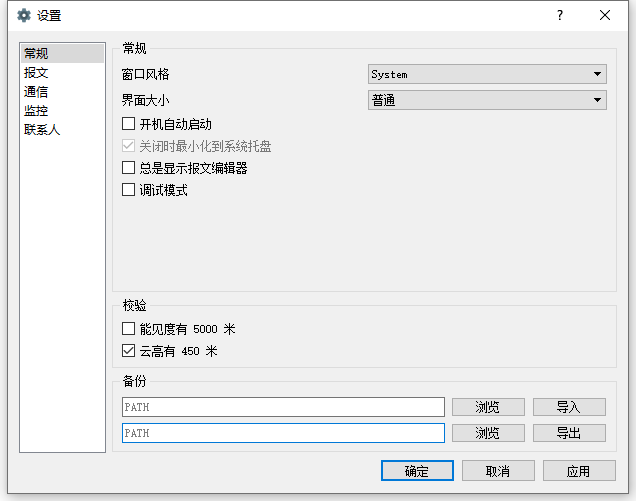
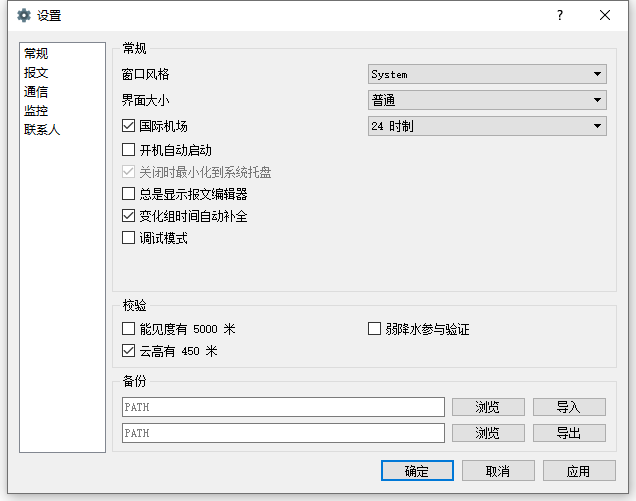
更新使用指南文档

diff --git a/docs/guide.rst b/docs/guide.rst
@@ -60,8 +60,10 @@
 """"""""""""
 - **窗口风格** 设置窗口主题，默认跟随系统
 - **界面大小** 调整界面放大比例，普通 100%，大 125%，最大 150%
+- **国际机场** 勾选国际机场，TAF 生成 FT 类型的报文，时长可选择 24 时制或 30 时制；不启用该项，TAF 生成 FC 类型的报文，时长 9 小时
 - **开机自动启动** 程序在系统启动时自动启动
 - **总是显示报文编辑器** 报文发送窗口打开时报文编辑器会默认隐藏，勾选后同时显示报文编辑器和发送窗口
+- **变化组时间自动补全** 勾选后 TAF 报文变化组会根据起始时间自动补全结束时间，BECMG 组结束时间递增 1 小时， TEMPO 组结束时间根据报文类型的不同递增 4 或 6 小时
 - **调试模式** 勾选后用于开启低级别的日志记录模式
 
 校验
@@ -261,7 +263,6 @@ AFTN 参数
 
 取消报不会自动添加闹钟。
 
-
 .. note:: 部分配置更改如需生效，需要重启软件。
 
 
@@ -273,12 +274,15 @@ TAF 报文的编辑
 
 .. image:: /images/taf_editor.png
 
-编辑框严格限制了每项要素所能输入的字符，未输入完全的项会灰色显示。
+阵风、能见度、温度的输入需要手动补 0，比如阵风 9 m，需要输入 09。
 
-阵风、能见度、温度的输入需要手动补 0，比如阵风 9 m，需要输入 09，所有必要项输入完全后，才可以进行下一步。
+云组的第一项输入 VV，可切换为垂直能见度模式，删除 VV 后切换为云组。
 
-.. note:: FM 组暂时没有。
+有效期 30 小时的报文会出现三组温度组，其中最后一组温度组可以点击 **温度计** 图标切换最高温模式或最低温模式。可变温度组不强制要求输入。在三组温度组模式中，温度组会按照高温优先并以时间排序，校验时遵循，两个最高温或最低温不能出现在同一天。
 
+变化组会按照 BECMG 组在前，TEMPO 组在后并以起始时间排序。
+
+编辑框严格限制了每项要素所能输入的字符，未输入完全的项会灰色显示，所有必要项输入完全后，才可以进行下一步。
 
 预览和校验
 ^^^^^^^^^^^
@@ -323,7 +327,17 @@ SIGMET 区域的编辑有两种模式，**画布模式** 和 **文本模式**：
 
 文本模式提供基础的经纬度输入，如果在设置 -> 数据源中开启了情报区信息地址，文本模式的编辑项会自动隐藏。
 
-画布模式会每 10 分钟加载一次最新的云图，并且在画布的左下角显示云图的更新时间，如果无法获取云图，底图会被灰色画布代替；区域编辑方式主要有三种，点，线和经纬度，点击区域右上角的 **淡蓝色图标** 可在三种状态之间切换。
+画布模式会每 10 分钟加载一次最新的云图，并且在画布的左下角显示云图的更新时间，如果无法获取云图，底图会被灰色画布代替；区域编辑方式主要有四种，点，线，经纬度，走廊区域，点击区域右上角右一的 **淡蓝色图标** 可在四种状态之间切换。
+
+区域编辑初始状态只能编辑一块区域，如果想要编辑预测区域，在默认区域编辑完成后，点击右上角 **淡蓝色 F 按钮**，可以编辑预测区域。如果在预测区域编辑完成后想修改默认区域，只能取消选中 **淡蓝色 F 按钮**，这样做的同时会清除预测区域。
+
+不同类型的区域会用不同的颜色显示，黄色表示默认区域，淡绿色表示预测区域。
+
+**文本**
+
+.. image:: /images/sigmet_text_area.png
+
+文本模式支持点，线，经纬度，走廊区域的输入，输入过程中会严格校验字符，但不校验输入的区域是否能被解析成合理的图形。
 
 **点**
 
@@ -335,7 +349,7 @@ SIGMET 区域的编辑有两种模式，**画布模式** 和 **文本模式**：
 
 在已有两个点时，初始点附近点击可以形成闭合区域，用实线表示编辑完成，此时程序会自动计算所选区域和情报区边界的交集，如果交集的点超过 7 个，会自动平滑到 7 个点以内。
 
-.. image:: /images/sigmet_polygon_extend.png
+.. image:: /images/sigmet_canvas_polygon_extend.png
 
 对于复杂边界，如国界、海岸线等，程序会自动扩展多边形以确保所有的点都包括在简化后的多边形内，如果扩展后的图形不符合你的预期，可以重新绘制多试几次。
       
@@ -345,7 +359,7 @@ SIGMET 区域的编辑有两种模式，**画布模式** 和 **文本模式**：
 
 **经纬度**
 
-.. image:: /images/sigmet_canvas_select_rectangular.png
+.. image:: /images/sigmet_canvas_draw_rectangular.png
 
 经纬度最多支持 4 条线构成一个区域，略有不同于点和线的编辑方式：
 
@@ -355,21 +369,49 @@ SIGMET 区域的编辑有两种模式，**画布模式** 和 **文本模式**：
 
 在编辑完成时，如果某条线的长度小于 0.5 度，则该条线不会被编入到报文中。
 
+**走廊区域**
+
+.. image:: /images/sigmet_canvas_corridor.png
+
+基线最大支持 4 个点，用虚线表示，实线表示编辑完成，添加宽度操作鼠标滚轮即可：
+
+    * :kbd:`鼠标左键` 添加坐标点
+
+    * :kbd:`鼠标右键` 删除宽度或上一个点
+
+    * :kbd:`鼠标滚轮` 调整图形的宽度
+
+如果区域的中心线和情报区相交成两条折线，选取先绘制的那条线作为基线。
+
 .. image:: /images/sigmet_canvas_decode.png
       
-已发送的 SIGMET 在有效期内会在底图中显示，图中的编号为 SIGMET 编号。
+已发送的 SIGMET 在有效期内会在底图中显示，不同类型的 SIGMET 显示为不同颜色，如雷雨显示棕黄色，火山灰显示红色等，图中的数字为 SIGMET 编号。
+
+如果 SIGMET 报文包含两个区域，预测区域会以淡绿色显示。
       
-.. note:: 通用模板不支持多块区域的编辑，如果想发布多块区域，应该发布多份 SIGMET。
+.. note:: 除预测区域外，通用模板不支持多块区域的编辑，如果想发布多块区域，应该发布多份 SIGMET。
 
 热带气旋模板
 """""""""""""""
 .. image:: /images/sigmet_typhoon_template.png
 
-经纬度的输入需要自行添加标识符 N、E 等。
+热带气旋的范围可以通过图形化绘制，选定中心，再添加一点可以绘制一个圆形区域：
+
+    * :kbd:`鼠标左键` 第一次添加中心点，第二次添加圆的边缘，由这两点确定圆的半径
+
+    * :kbd:`鼠标右键` 删除半径或中心点
+
+    * :kbd:`鼠标滚轮` 调整圆的半径
+
+输入框中的经纬度、范围会和图形区域同步，但因为精度换算问题，有可能会和画布中显示的些许不同，最终生成的报文以输入框的为准。如果手工输入经纬度，需要自行添加标识符，如 N、E 等。
 
 预测时间默认为有效结束时前之前的整点。
 
 预测经纬度会根据当前的经纬度、移动速度、移动时间差值计算未来的经纬度，已考虑不同纬度每度经度所表示的距离不同。
+
+.. image:: /images/sigmet_canvas_decode_circle.png
+
+有效期内热带气旋类型的 SIGMET 图形区域会以紫色显示显示。
 
 .. note:: 移动时间优先选取 预测时间 - 观测时间，如果没有观测时间，则用 预测时间 - 起始时间 代替。
 
